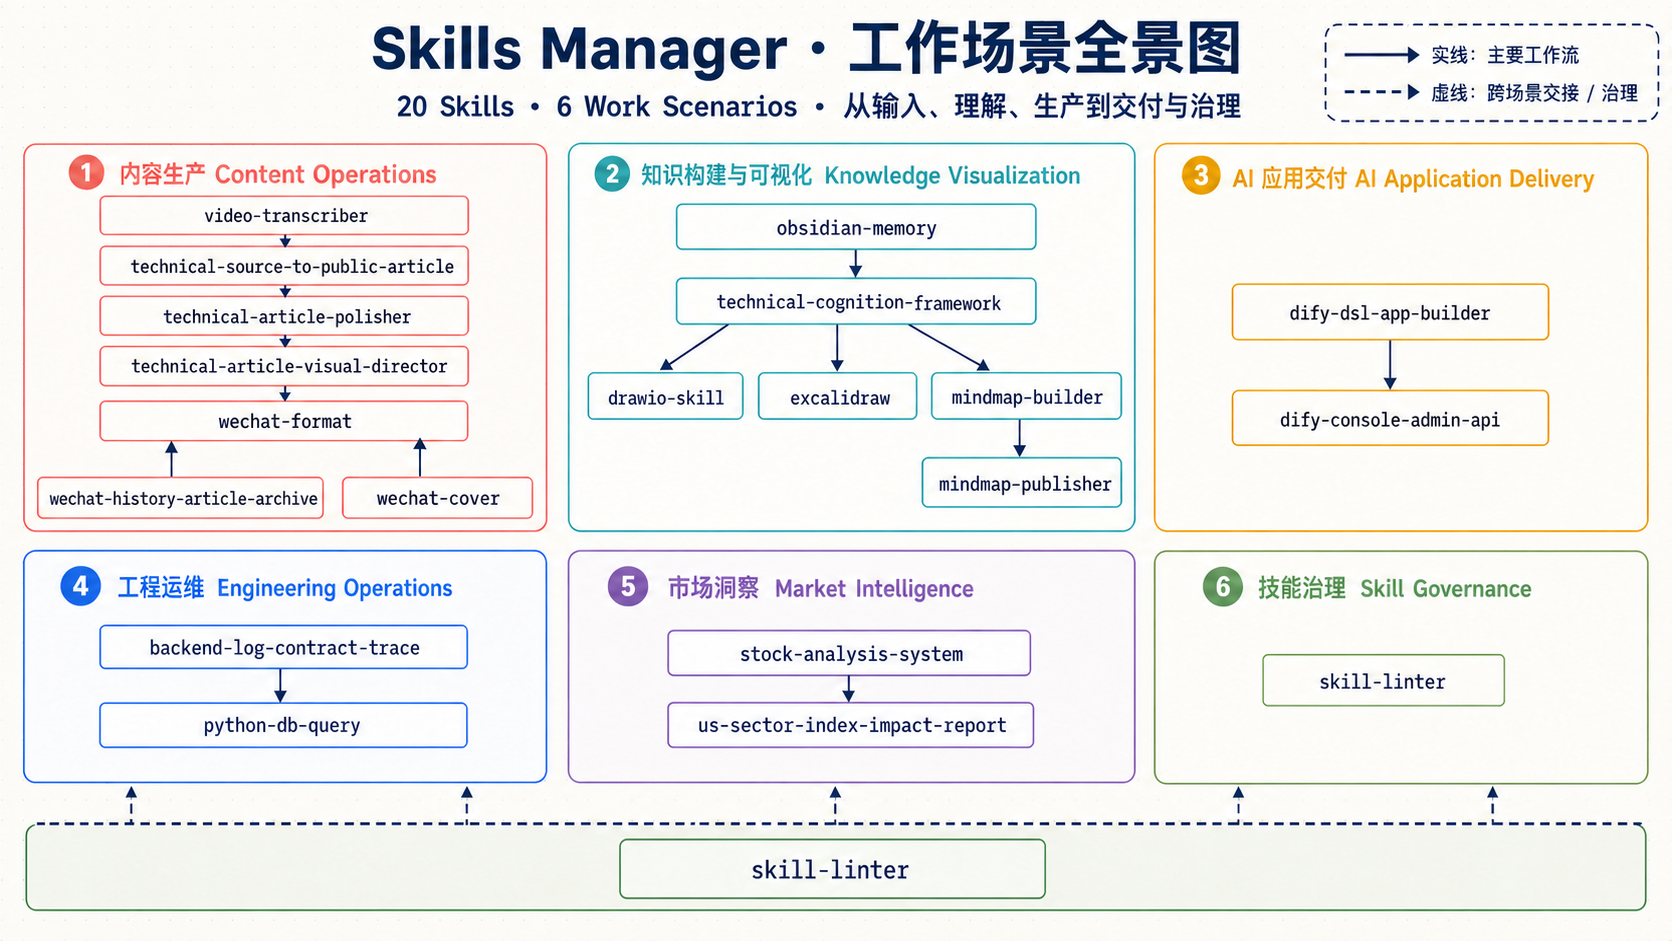
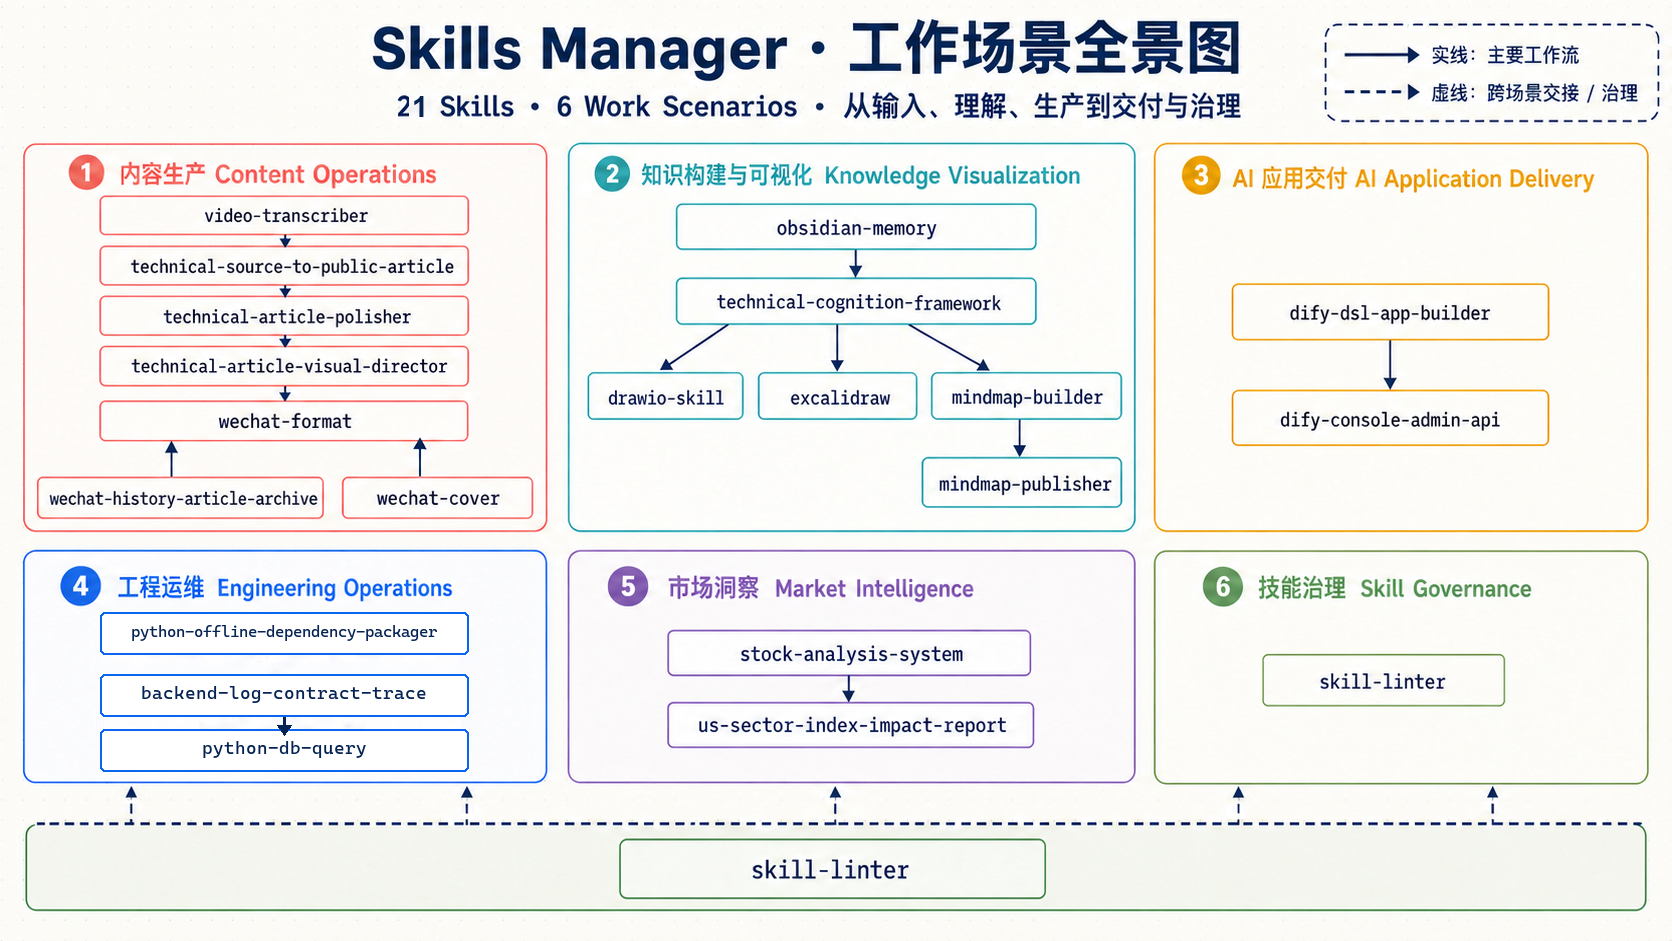
feat: 支持交互查询依赖版本

Changed region(s): [[0.0622, 0.6472, 0.2799, 0.8013], [0.2488, 0.0925, 0.2799, 0.1233]]

diff --git a/skills/engineering-operations/python-offline-dependency-packager/tests/test_download_package.py b/skills/engineering-operations/python-offline-dependency-packager/tests/test_download_package.py
@@ -7,7 +7,7 @@ from pathlib import Path
 import subprocess
 import tempfile
 import unittest
-from contextlib import redirect_stderr
+from contextlib import redirect_stderr, redirect_stdout
 from unittest import mock
 
 
@@ -86,14 +86,99 @@ class DownloadPackageTests(unittest.TestCase):
         with self.assertRaises(ValueError):
             download_package.validate_requirement("requests", "latest")
 
-    def test_missing_required_versions_never_runs_pip(self) -> None:
-        missing_python = ["--package", "requests", "--version", "2.32.5"]
-        missing_package_version = ["--package", "requests", "--python-version", "3.11"]
+    def test_prompts_for_package_and_lists_versions_without_downloading(self) -> None:
+        query_result = subprocess.CompletedProcess(
+            [],
+            0,
+            stdout="requests (2.32.5)\nAvailable versions: 2.32.5, 2.32.4\n",
+            stderr="",
+        )
+        stdout = io.StringIO()
+        with (
+            mock.patch("builtins.input", return_value="requests") as prompt,
+            mock.patch.object(
+                download_package.subprocess, "run", return_value=query_result
+            ) as run,
+            redirect_stdout(stdout),
+        ):
+            result = download_package.main([])
+
+        self.assertEqual(result, 0)
+        prompt.assert_called_once_with("Dependency name: ")
+        command = run.call_args.args[0]
+        self.assertEqual(
+            command[-5:],
+            ["pip", "index", "versions", "--ignore-requires-python", "requests"],
+        )
+        self.assertNotIn("download", command)
+        self.assertIn("Available versions: 2.32.5, 2.32.4", stdout.getvalue())
+        self.assertIn("Target Python version is missing", stdout.getvalue())
+        self.assertIn("No packages were downloaded", stdout.getvalue())
+
+    def test_missing_python_never_runs_pip(self) -> None:
+        stdout = io.StringIO()
+        with (
+            mock.patch.object(download_package.subprocess, "run") as run,
+            redirect_stdout(stdout),
+        ):
+            result = download_package.main(
+                ["--package", "requests", "--version", "2.32.5"]
+            )
+
+        self.assertEqual(result, 0)
+        run.assert_not_called()
+        self.assertIn("Target Python version is missing", stdout.getvalue())
+        self.assertIn("No packages were downloaded", stdout.getvalue())
+
+    def test_missing_package_version_lists_versions_without_downloading(self) -> None:
+        query_result = subprocess.CompletedProcess(
+            [], 0, stdout="Available versions: 2.32.5, 2.32.4\n", stderr=""
+        )
+        stdout = io.StringIO()
+        with (
+            mock.patch.object(
+                download_package.subprocess, "run", return_value=query_result
+            ) as run,
+            redirect_stdout(stdout),
+        ):
+            result = download_package.main(
+                ["--package", "requests", "--python-version", "3.11"]
+            )
+
+        self.assertEqual(result, 0)
+        self.assertNotIn("download", run.call_args.args[0])
+        self.assertIn("Available versions: 2.32.5, 2.32.4", stdout.getvalue())
+        self.assertIn("No packages were downloaded", stdout.getvalue())
+
+    def test_version_lookup_failure_does_not_download(self) -> None:
+        query_result = subprocess.CompletedProcess(
+            [],
+            1,
+            stdout="",
+            stderr="ERROR: No matching distribution found for unknown-package",
+        )
+        stderr = io.StringIO()
+        with (
+            mock.patch.object(
+                download_package.subprocess, "run", return_value=query_result
+            ) as run,
+            redirect_stderr(stderr),
+        ):
+            result = download_package.main(["--package", "unknown-package"])
+
+        self.assertEqual(result, 2)
+        self.assertNotIn("download", run.call_args.args[0])
+        self.assertIn("Could not list versions", stderr.getvalue())
+
+    def test_invalid_supplied_version_values_do_not_query_or_download(self) -> None:
+        cases = (
+            ["--package", "requests", "--version", "latest"],
+            ["--package", "requests", "--python-version", "3.11.5"],
+        )
         with mock.patch.object(download_package.subprocess, "run") as run:
-            for arguments in (missing_python, missing_package_version):
-                with self.subTest(arguments=arguments):
-                    with redirect_stderr(io.StringIO()), self.assertRaises(SystemExit):
-                        download_package.main(arguments)
+            for arguments in cases:
+                with self.subTest(arguments=arguments), redirect_stderr(io.StringIO()):
+                    self.assertEqual(download_package.main(arguments), 2)
             run.assert_not_called()
 
     def test_requires_python_minor_version_line(self) -> None:

diff --git a/skills/engineering-operations/python-offline-dependency-packager/scripts/download_package.py b/skills/engineering-operations/python-offline-dependency-packager/scripts/download_package.py
@@ -86,15 +86,20 @@ fi
 
 def parse_args(argv: Sequence[str] | None = None) -> argparse.Namespace:
     parser = argparse.ArgumentParser(
-        description="Download an exact Python package version and all dependencies."
+        description=(
+            "Interactively inspect versions or download an exact Python package "
+            "version and all dependencies."
+        )
     )
-    parser.add_argument("--package", required=True, help="Distribution name, optionally with extras")
-    parser.add_argument("--version", required=True, help="Exact distribution version, not a range")
+    parser.add_argument(
+        "--package",
+        help="Distribution name, optionally with extras; prompted for when omitted",
+    )
+    parser.add_argument("--version", help="Exact distribution version, not a range")
     parser.add_argument("--output", type=Path, help="Bundle directory")
     parser.add_argument("--platform", help="Target platform tag accepted by pip")
     parser.add_argument(
         "--python-version",
-        required=True,
         help="Target Python line in X.Y or X.Y.x form, for example 3.11.x",
     )
     parser.add_argument("--implementation", default="cp", help="Target implementation tag (default: cp)")
@@ -107,12 +112,40 @@ def parse_args(argv: Sequence[str] | None = None) -> argparse.Namespace:
     return parser.parse_args(argv)
 
 
-def validate_requirement(package: str, version: str) -> str:
+def validate_package(package: str) -> str:
     if not PACKAGE_RE.fullmatch(package):
         raise ValueError(f"Invalid package name or extras: {package!r}")
+    return package
+
+
+def validate_requirement(package: str, version: str) -> str:
+    validate_package(package)
     if not VERSION_RE.fullmatch(version):
         raise ValueError(f"Invalid exact version: {version!r}")
     return f"{package}=={version}"
+
+
+def version_query_package(package: str) -> str:
+    validate_package(package)
+    return package.split("[", 1)[0]
+
+
+def list_available_versions(package: str) -> str:
+    command = [
+        sys.executable,
+        "-m",
+        "pip",
+        "index",
+        "versions",
+        "--ignore-requires-python",
+        version_query_package(package),
+    ]
+    result = subprocess.run(command, check=False, capture_output=True, text=True)
+    if result.returncode != 0:
+        detail = (result.stderr or result.stdout).strip()
+        suffix = f": {detail}" if detail else ""
+        raise RuntimeError(f"Could not list versions for {package!r}{suffix}")
+    return result.stdout.strip()
 
 
 def validate_python_version(version: str) -> tuple[int, int]:
@@ -247,7 +280,34 @@ def create_bundle(args: argparse.Namespace) -> Path:
 
 def main(argv: Sequence[str] | None = None) -> int:
     args = parse_args(argv)
+    if not args.package:
+        try:
+            args.package = input("Dependency name: ").strip()
+        except EOFError:
+            print("error: dependency name is required", file=sys.stderr)
+            return 2
+
     try:
+        validate_package(args.package)
+        if args.version:
+            validate_requirement(args.package, args.version)
+        if args.python_version:
+            validate_python_version(args.python_version)
+        if not args.version or not args.python_version:
+            if not args.version:
+                versions = list_available_versions(args.package)
+                print(f"Available versions for {version_query_package(args.package)}:")
+                print(versions)
+            if not args.python_version:
+                print(
+                    "Target Python version is missing. Specify --python-version "
+                    "with X.Y or X.Y.x, for example 3.11 or 3.11.x."
+                )
+            print(
+                "No packages were downloaded. Re-run with both --version and "
+                "--python-version to create the offline bundle."
+            )
+            return 0
         output = create_bundle(args)
     except (ValueError, FileExistsError, RuntimeError) as exc:
         print(f"error: {exc}", file=sys.stderr)

diff --git a/skills/engineering-operations/python-offline-dependency-packager/SKILL.md b/skills/engineering-operations/python-offline-dependency-packager/SKILL.md
@@ -1,6 +1,6 @@
 ---
 name: python-offline-dependency-packager
-description: Download an exact Python package version for an explicitly supplied target Python minor-version line, including all transitive dependencies, and generate standalone PowerShell and POSIX-shell offline installers. Use when preparing a reproducible dependency bundle for an offline or restricted-network machine; do not use when the package version or target Python X.Y or X.Y.x value is missing.
+description: Interactively collect a Python dependency name, show versions visible from the configured pip index when the exact dependency version is missing, and download only after an exact package version and target Python minor-version line are explicitly supplied. Use when preparing a reproducible dependency bundle for an offline or restricted-network machine.
 ---
 
 # Python Offline Dependency Packager
@@ -9,8 +9,15 @@ Use `scripts/download_package.py` to resolve one pinned package, download its fu
 
 ## Workflow
 
-1. Require the user to supply all three values: package name, exact package version, and target Python version in `X.Y` or `X.Y.x` form. Never infer the target Python version from the current interpreter. If either version is missing or ambiguous, ask for it and do not run the downloader. Normalize `X.Y.x` to the `X.Y` compatibility line.
-2. From the repository root, run the downloader with the repository Python launcher:
+1. Collect the package name interactively. If it was not supplied in the request, run the script without `--package` and let it prompt with `Dependency name:`.
+2. Require an exact package version and a target Python version in `X.Y` or `X.Y.x` form before downloading. Never infer the target Python version from the current interpreter. When the package version is missing, the script runs `pip index versions --ignore-requires-python` against the configured index, shows the visible versions without filtering them against the current interpreter, and stops. When the target Python version is missing, it explains the accepted format and stops. Neither incomplete path downloads package files.
+3. From the repository root, run the downloader with the repository Python launcher. For discovery:
+
+   ```powershell
+   .\scripts\run-python.ps1 .\skills\engineering-operations\python-offline-dependency-packager\scripts\download_package.py
+   ```
+
+   For a complete download request:
 
    ```powershell
    .\scripts\run-python.ps1 .\skills\engineering-operations\python-offline-dependency-packager\scripts\download_package.py `
@@ -19,13 +26,13 @@ Use `scripts/download_package.py` to resolve one pinned package, download its fu
 
    `--python-version 3.11.x` is equivalent and is normalized to `3.11` before pip runs.
 
-3. Deliver the generated directory under `output/python-offline-dependency-packager/`. It contains:
+4. Deliver the generated directory under `output/python-offline-dependency-packager/`. It contains:
    - `packages/`: the pinned package and every dependency selected by pip.
    - `requirements.txt`: the exact requested root requirement.
    - `bundle-manifest.json`: target metadata plus SHA-256 hashes for downloaded files.
    - `install.ps1`: one-click PowerShell installer.
    - `install.sh`: one-click POSIX-shell installer.
-4. On the offline machine, extract or copy the complete directory, then run one installer:
+5. On the offline machine, extract or copy the complete directory, then run one installer:
 
    ```powershell
    powershell -ExecutionPolicy Bypass -File .\install.ps1
@@ -35,7 +42,7 @@ Use `scripts/download_package.py` to resolve one pinned package, download its fu
    sh ./install.sh
    ```
 
-5. Verify the package after installation with the target interpreter, using the import name supplied by the user when it differs from the distribution name.
+6. Verify the package after installation with the target interpreter, using the import name supplied by the user when it differs from the distribution name.
 
 ## Target Compatibility
 

diff --git a/README.md b/README.md
@@ -24,7 +24,7 @@
 | 内容运营 | `skills/content-operations/` | 转写、技术来源成文、文章润色、视觉策划、公众号排版、封面与历史文章归档 |
 | 知识可视化 | `skills/knowledge-visualization/` | 支持多关键词相关度检索的 Obsidian 外部记忆、技术认知框架、draw.io、Excalidraw、离线思维导图与静态发布 |
 | AI 应用交付 | `skills/ai-application-delivery/` | Dify 应用创建、DSL 设计、导入、更新与验证 |
-| 工程运维 | `skills/engineering-operations/` | Python 离线依赖打包、数据库安全查询、Windows/Linux MinIO 对象检查、元数据/执行计划检查、后端日志与数据契约追踪 |
+| 工程运维 | `skills/engineering-operations/` | Python 依赖版本交互查询与离线打包、数据库安全查询、Windows/Linux MinIO 对象检查、元数据/执行计划检查、后端日志与数据契约追踪 |
 | 市场研究 | `skills/market-intelligence/` | 股票技术分析、美股行业复盘与跨市场影响研究 |
 | 技能治理 | `skills/skill-governance/` | skill 结构、元数据、链接、兼容入口与敏感信息检查 |
 
@@ -47,7 +47,7 @@
 - Dify Console API：[`skills/ai-application-delivery/dify-console-admin-api`](skills/ai-application-delivery/dify-console-admin-api/SKILL.md)
 - Dify DSL Builder：[`skills/ai-application-delivery/dify-dsl-app-builder`](skills/ai-application-delivery/dify-dsl-app-builder/SKILL.md)
 - Dify DSL 导入规则：[`skills/ai-application-delivery/dify-dsl-app-builder/dsl-import-rules.md`](skills/ai-application-delivery/dify-dsl-app-builder/dsl-import-rules.md)
-- Python 离线依赖打包：[`skills/engineering-operations/python-offline-dependency-packager`](skills/engineering-operations/python-offline-dependency-packager/SKILL.md)
+- Python 离线依赖打包：[`skills/engineering-operations/python-offline-dependency-packager`](skills/engineering-operations/python-offline-dependency-packager/SKILL.md)，支持交互输入依赖名；缺少精确版本或目标 Python 时只展示候选版本与补充提示，不下载文件
 - 数据库查询与元数据检查：[`skills/engineering-operations/python-db-query`](skills/engineering-operations/python-db-query/SKILL.md)
 
 ## 根目录入口

diff --git a/docs/skill-index.md b/docs/skill-index.md
@@ -36,7 +36,7 @@ Use this group when the request is about Dify apps, DSL import/export, platform 
 
 Use this group when the request is about dependency packaging, database-backed lookup, or diagnosing backend code and contract paths.
 
-- `skills/engineering-operations/python-offline-dependency-packager/SKILL.md`: exact-version Python package download with the full transitive dependency closure, target interpreter/platform selectors, file hashes, and one-click offline installers for PowerShell and POSIX shells.
+- `skills/engineering-operations/python-offline-dependency-packager/SKILL.md`: interactive dependency-name collection and configured-index version discovery without package downloads when the exact version or target Python is missing; complete requests produce an exact-version bundle with the full transitive dependency closure, target interpreter/platform selectors, file hashes, and one-click offline installers for PowerShell and POSIX shells.
 - `skills/engineering-operations/python-db-query/SKILL.md`: safe Python database querying plus Windows/Linux MinIO `mc` integration for bucket/object inspection and guarded downloads, with ignored local configs, read-only defaults, structured output, and explicit authorization boundaries.
 - `skills/engineering-operations/backend-log-contract-trace/SKILL.md`: backend log-to-contract tracing across routes/controllers, DTO/VOs, services, mapper XML, SQL columns, cross-service parameters, and database constraints.
 
